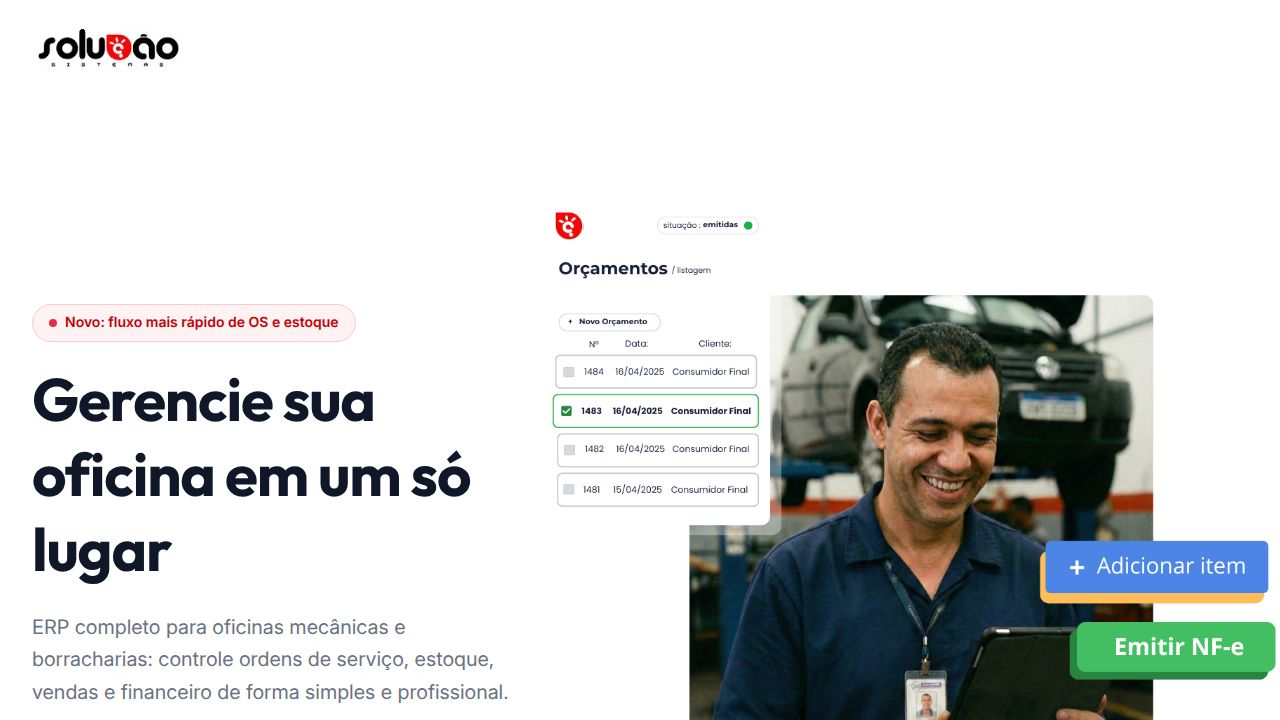
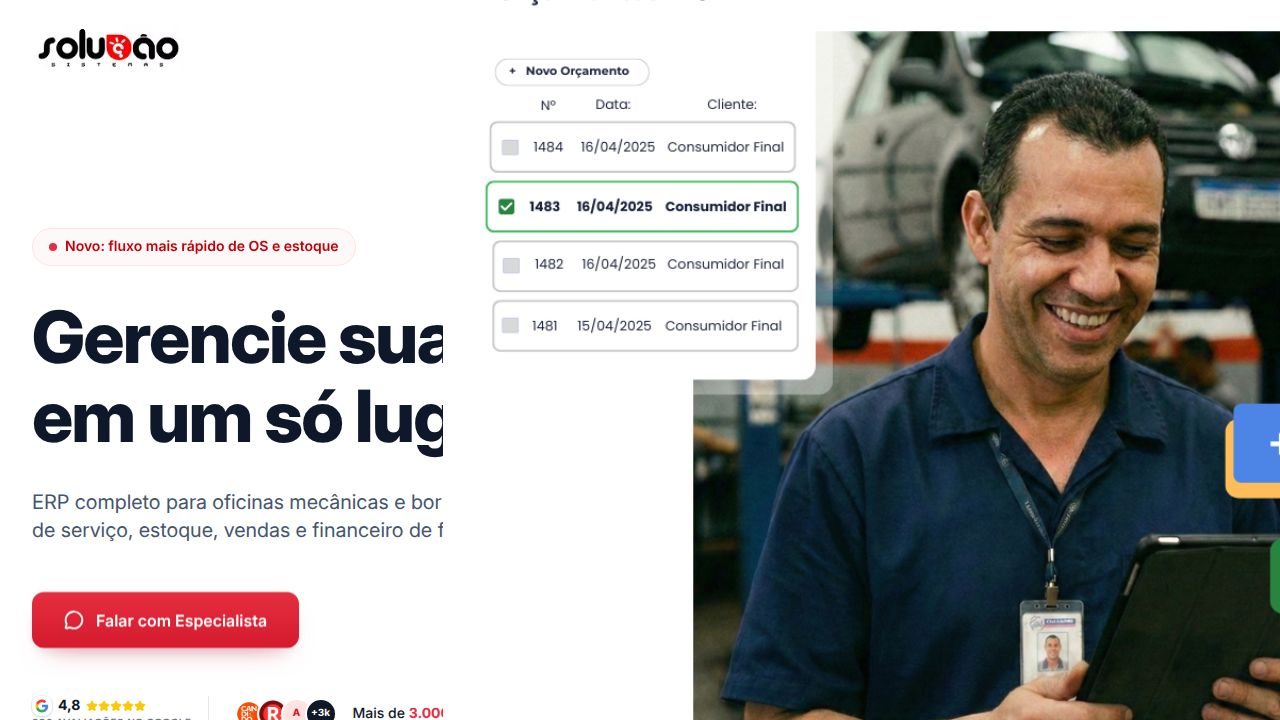
Increase space between text and image in hero section
Adjusted grid column layout to shift text further left and increase image size in the hero section. Updated font sizes and maximum widths for text elements and increased the scale of the hero image.

Replit-Commit-Author: Agent
Replit-Commit-Session-Id: 7b773cb9-9a47-41f8-8ae4-a4f4207d9478
Replit-Commit-Checkpoint-Type: full_checkpoint
Replit-Commit-Event-Id: 0ce9ff24-24a8-42ab-9f06-6ebe4ce4adfa
Replit-Commit-Screenshot-Url: https://storage.googleapis.com/screenshot-production-us-central1/b8ae16c3-b244-4695-b191-f119d4070242/7b773cb9-9a47-41f8-8ae4-a4f4207d9478/2MAPSMJ
Replit-Helium-Checkpoint-Created: true

diff --git a/client/src/pages/landing.tsx b/client/src/pages/landing.tsx
@@ -106,7 +106,7 @@ function Hero() {
           <img src={logoCompany} alt="Solução Sistemas" className="h-12 w-auto object-contain" />
         </div>
         <div className="relative grid items-center gap-12 py-12 sm:py-16 lg:grid-cols-12 lg:gap-20 lg:py-24">
-          <div className="lg:col-span-12 xl:col-span-8">
+          <div className="lg:col-span-12 xl:col-span-7">
             <FadeIn>
               <div
                 data-testid="badge-hero"
@@ -121,14 +121,14 @@ function Hero() {
 
               <h1
                 data-testid="text-hero-title"
-                className="mt-8 font-extrabold tracking-tight text-[#0F172A] sm:text-6xl lg:text-8xl lg:leading-[1.1] text-[71px]"
+                className="mt-8 font-extrabold tracking-tight text-[#0F172A] sm:text-6xl lg:text-7xl lg:leading-[1.1] text-[64px]"
               >
                 Gerencie sua oficina em um só lugar
               </h1>
 
               <p
                 data-testid="text-hero-subtitle"
-                className="mt-8 max-w-4xl text-slate-600 sm:text-xl lg:text-2xl text-[19px]"
+                className="mt-8 max-w-2xl text-slate-600 sm:text-xl lg:text-xl text-[18px]"
               >
                 ERP completo para oficinas mecânicas e borracharias: controle ordens de serviço, estoque, vendas e financeiro de forma simples e profissional.
               </p>
@@ -202,17 +202,17 @@ function Hero() {
             </FadeIn>
           </div>
 
-          <div className="lg:col-span-12 xl:col-span-4 lg:mt-12 xl:mt-0">
+          <div className="lg:col-span-12 xl:col-span-5 lg:mt-12 xl:mt-0">
             <FadeIn delay={100}>
               <div
                 data-testid="img-hero-mockup"
-                className="group relative mx-auto w-full max-w-2xl xl:ml-auto xl:mr-0"
+                className="group relative mx-auto w-full max-w-4xl xl:ml-auto xl:mr-0"
               >
                 <img
                   data-testid="img-hero-dashboard"
                   src={heroMainImage}
                   alt="Mecânico usando o sistema"
-                  className="h-auto w-full origin-center object-contain scale-[2.2]"
+                  className="h-auto w-full origin-center object-contain scale-[2.5]"
                 />
               </div>
             </FadeIn>
